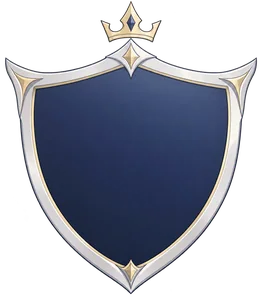
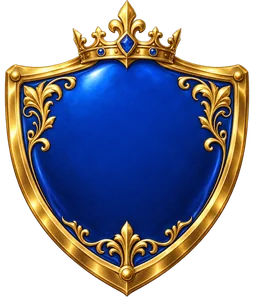
art(kingdom): 宝库头图与王国等级盾徽改回彩绘版；收取按钮重做为切角描金细边 + 深色填充 + 数量签

diff --git a/src/meta/screens/kingdomSheet.css b/src/meta/screens/kingdomSheet.css
@@ -215,21 +215,6 @@
 .kh-muted { color: #8f8595; font-size: 12px; }
 .kh-stock { margin: 0; color: #d9ccb2; font-size: 12px; display: flex; flex-wrap: wrap; align-items: center; gap: 6px 10px; }
 .kh-tribute .tribute-meter { gap: 5px; }
-/* 与宝库「全部收取」同一套象牙白胶囊，替代原来的大块金色渐变 */
-.kh-tribute .tribute-btn {
-  width: 100%;
-  margin-top: auto;
-  border: 1px solid rgba(255, 255, 255, .7);
-  border-radius: 999px;
-  background: linear-gradient(180deg, #fbf5e4 0%, #eadcb6 100%);
-  box-shadow: inset 0 -2px 0 rgba(150, 120, 60, .18), 0 4px 12px rgba(0, 0, 0, .4);
-  color: #231d2b;
-  text-shadow: none;
-  letter-spacing: 2px;
-}
-.kh-tribute .tribute-btn [data-icon] { color: #3a3346; }
-.kh-tribute .tribute-btn:hover:not(:disabled) { filter: none; background: linear-gradient(180deg, #ffffff 0%, #f0e4c4 100%); }
-.kh-tribute .tribute-btn:disabled { border-color: rgba(255, 255, 255, .15); background: rgba(255, 255, 255, .08); box-shadow: none; color: rgba(240, 232, 214, .45); filter: none; opacity: 1; }
 
 .kc-amount { display: inline-flex; align-items: center; gap: 4px; color: #fff0c4; }
 .kc-amount img { width: 20px; height: 20px; object-fit: contain; filter: drop-shadow(0 1px 2px #000); }
@@ -361,41 +346,90 @@
 .tr-row-gain { display: flex; gap: 12px; }
 .treasury .tb-acts { padding: 4px 24px 0; display: flex; justify-content: center; align-items: center; gap: 18px; }
 .treasury .tb-acts .cancel { margin: 0; }
-/* 主按钮：现代克制风格——象牙白胶囊 + 深色字，靠留白和细高光，不用彩绘金牌 */
-.tr-collect {
+/* 收取主按钮：切角（六边形）描金细边 + 深色填充，底部一道暖光表示「可以收」。
+   不用整块金色填充，靠细边、切角与光带做层次；数量单独放在右侧小签里。 */
+.tr-collect, .kh-tribute .tribute-btn {
+  --cut: 14px;
+  --edge: linear-gradient(90deg, rgba(180, 142, 80, .55), #f0d69a 50%, rgba(180, 142, 80, .55));
+  --fill: radial-gradient(ellipse 55% 90% at 50% 125%, rgba(255, 196, 104, .30), transparent 70%), linear-gradient(180deg, #2d2634, #16131c);
   position: relative;
+  isolation: isolate;
+  display: inline-flex;
+  align-items: center;
+  justify-content: center;
+  gap: 12px;
   min-width: 300px;
   height: 52px;
-  padding: 0 40px;
-  border: 1px solid rgba(255, 255, 255, .7);
-  border-radius: 999px;
-  background: linear-gradient(180deg, #fbf5e4 0%, #eadcb6 100%);
-  box-shadow: inset 0 -2px 0 rgba(150, 120, 60, .18), 0 6px 18px rgba(0, 0, 0, .45);
-  color: #231d2b;
-  font: 600 18px var(--body);
-  letter-spacing: 3px;
-  transition: transform .15s, box-shadow .15s, background .15s;
+  padding: 0 34px;
+  border: 0;
+  border-radius: 0;
+  background: var(--edge);
+  clip-path: polygon(var(--cut) 0, calc(100% - var(--cut)) 0, 100% 50%, calc(100% - var(--cut)) 100%, var(--cut) 100%, 0 50%);
+  box-shadow: none;
+  color: #f8e8c2;
+  font: 600 17px var(--body);
+  letter-spacing: 4px;
+  text-shadow: 0 1px 2px rgba(0, 0, 0, .6);
+  transition: transform .15s, filter .15s;
 }
-/* 两端的细菱形点缀，替代原来的雕花 */
-.tr-collect::before, .tr-collect::after {
+/* 内层填充：比外层缩 1.5px，露出的就是描金切角边 */
+.tr-collect::before, .kh-tribute .tribute-btn::before {
   content: "";
   position: absolute;
-  top: 50%;
-  width: 6px;
-  height: 6px;
-  translate: 0 -50%;
-  rotate: 45deg;
-  background: rgba(35, 29, 43, .45);
+  inset: 1.5px;
+  z-index: -1;
+  background: var(--fill);
+  clip-path: polygon(calc(var(--cut) - 1px) 0, calc(100% - var(--cut) + 1px) 0, 100% 50%, calc(100% - var(--cut) + 1px) 100%, calc(var(--cut) - 1px) 100%, 0 50%);
 }
-.tr-collect::before { left: 20px; }
-.tr-collect::after { right: 20px; }
-.tr-collect:hover:not(:disabled) { background: linear-gradient(180deg, #ffffff 0%, #f0e4c4 100%); box-shadow: inset 0 -2px 0 rgba(150, 120, 60, .18), 0 8px 22px rgba(0, 0, 0, .5), 0 0 0 3px rgba(255, 240, 200, .18); }
-.tr-collect:active:not(:disabled) { transform: translateY(1px); }
-.tr-collect:focus-visible { outline: 2px solid #a6dff9; outline-offset: 3px; }
-.tr-collect:disabled { border-color: rgba(255, 255, 255, .15); background: rgba(255, 255, 255, .08); box-shadow: none; color: rgba(240, 232, 214, .45); cursor: default; }
-.tr-collect:disabled::before, .tr-collect:disabled::after { background: rgba(240, 232, 214, .25); }
-.tr-collect span { position: relative; }
-.tr-collect.is-done { pointer-events: none; border-color: rgba(170, 230, 190, .6); background: linear-gradient(180deg, #e3f5e6 0%, #bfe3c8 100%); color: #1d3a26; }/* 收取后：合计格依次亮起 */
+/* 顶部一条细高光 + 悬停时的扫光 */
+.tr-collect::after, .kh-tribute .tribute-btn::after {
+  content: "";
+  position: absolute;
+  inset: 1.5px var(--cut) auto;
+  z-index: -1;
+  height: 1px;
+  background: linear-gradient(90deg, transparent, rgba(255, 238, 200, .55), transparent);
+}
+.tr-collect span, .kh-tribute .tribute-btn span { position: relative; }
+.tr-collect-count {
+  display: inline-grid;
+  place-items: center;
+  min-width: 42px;
+  height: 22px;
+  padding: 0 8px;
+  border-radius: 4px;
+  background: linear-gradient(180deg, #f3d792, #c79a4c);
+  color: #2a1d0c;
+  font: 700 12px/1 var(--body);
+  font-style: normal;
+  letter-spacing: 1px;
+  text-shadow: none;
+}
+.tr-collect-count[hidden] { display: none; }
+.tr-collect:hover:not(:disabled), .kh-tribute .tribute-btn:hover:not(:disabled) {
+  --fill: radial-gradient(ellipse 60% 100% at 50% 120%, rgba(255, 204, 116, .45), transparent 72%), linear-gradient(180deg, #352c3c, #1a1620);
+  filter: brightness(1.06);
+}
+.tr-collect:active:not(:disabled), .kh-tribute .tribute-btn:active:not(:disabled) { transform: translateY(1px); }
+.tr-collect:focus-visible, .kh-tribute .tribute-btn:focus-visible { outline: none; --edge: linear-gradient(90deg, #a6dff9, #e6f6ff 50%, #a6dff9); }
+.tr-collect:disabled, .kh-tribute .tribute-btn:disabled {
+  --edge: linear-gradient(90deg, rgba(200, 190, 170, .18), rgba(200, 190, 170, .32), rgba(200, 190, 170, .18));
+  --fill: linear-gradient(180deg, #211e27, #17151c);
+  color: rgba(240, 232, 214, .4);
+  opacity: 1;
+  filter: none;
+  cursor: default;
+}
+.tr-collect.is-done {
+  pointer-events: none;
+  --edge: linear-gradient(90deg, rgba(110, 190, 150, .5), #bdeccf 50%, rgba(110, 190, 150, .5));
+  --fill: radial-gradient(ellipse 55% 90% at 50% 125%, rgba(120, 220, 160, .28), transparent 70%), linear-gradient(180deg, #1f2a26, #131a17);
+  color: #d4f5de;
+}
+/* 王国弹层里的「打开宝库」：同一形状，窄一些、不带数量签 */
+.kh-tribute .tribute-btn { --cut: 12px; width: 100%; min-width: 0; height: 44px; margin-top: auto; padding: 0 22px; gap: 8px; font-size: 15px; letter-spacing: 2px; }
+.kh-tribute .tribute-btn [data-icon] { width: 17px; height: 17px; color: #f0d69a; }
+/* 收取后：合计格依次亮起 */
 .treasury.is-collected .tr-total:not(.zero) { animation: tr-pop .7s cubic-bezier(.2, 1.5, .4, 1) calc(var(--i, 0) * .08s) both; border-color: #ffe08a; box-shadow: 0 0 16px rgba(255, 210, 110, .45); }
 .treasury.is-collected .tr-hero img { animation: tr-burst .9s ease-out both, tr-float 4s ease-in-out .9s infinite; }
 @keyframes tr-float { 0%, 100% { translate: -50% 0; } 50% { translate: -50% -5px; } }
@@ -430,7 +464,7 @@
   .stage.map-responsive .tr-row-gain .kc-amount img { width: 16px; height: 16px; }
   .stage.map-responsive .tr-row-gain .kc-amount b { font-size: 12px; }
   .stage.map-responsive .treasury .tb-acts { padding: 4px 12px 0; gap: 10px; }
-  .stage.map-responsive .tr-collect { min-width: 0; flex: 1; height: 46px; padding: 0 28px; font-size: 16px; letter-spacing: 2px; }
+  .stage.map-responsive .tr-collect { min-width: 0; flex: 1; height: 48px; padding: 0 22px; gap: 8px; font-size: 16px; letter-spacing: 2px; }
   .stage.map-responsive .tr-block > header { flex-wrap: wrap; row-gap: 2px; }
   .stage.map-responsive .tr-block > header b { white-space: nowrap; }
   .stage.map-responsive .tr-block > header small { text-align: left; }

diff --git a/src/meta/screens/mapScreen.ts b/src/meta/screens/mapScreen.ts
@@ -932,7 +932,7 @@ export class MapScreen implements Screen {
           <div class="tr-body" id="tributeRows"></div>
           <div class="tb-acts">
             <button class="cancel" id="tributeCancel" type="button">稍后再来</button>
-            <button class="tr-collect" id="tributeConfirm" type="button"><span id="tributeConfirmLabel">全部收取</span></button>
+            <button class="tr-collect" id="tributeConfirm" type="button"><span id="tributeConfirmLabel">全部收取</span><em class="tr-collect-count" id="tributeConfirmCount" hidden></em></button>
           </div>
         </section>
       </div>
@@ -1178,7 +1178,11 @@ export class MapScreen implements Screen {
     const btn = $('#tributeConfirm') as HTMLButtonElement;
     btn.disabled = !collected && !treasury.ready;
     btn.classList.toggle('is-done', collected);
-    $('#tributeConfirmLabel').textContent = collected ? '✓ 已入库' : treasury.ready ? `全部收取 · ${treasury.readyCount} 国` : '暂无进贡';
+    $('#tributeConfirmLabel').textContent = collected ? '已入库' : treasury.ready ? '全部收取' : '暂无进贡';
+    const count = $('#tributeConfirmCount');
+    count.hidden = collected || !treasury.ready;
+    count.textContent = `${treasury.readyCount} 国`;
+    btn.setAttribute('aria-label', collected ? '已入库' : treasury.ready ? `全部收取，${treasury.readyCount} 国` : '暂无进贡');
     mountIcons($('#tributeVeil'));
   }
 
